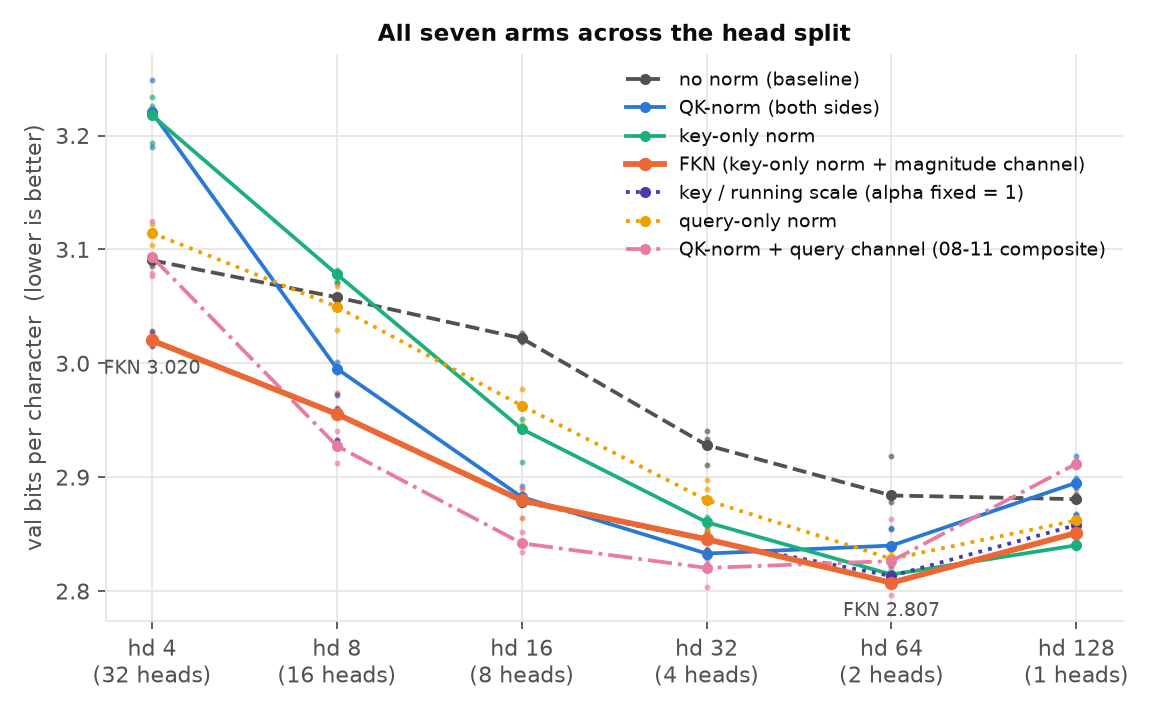
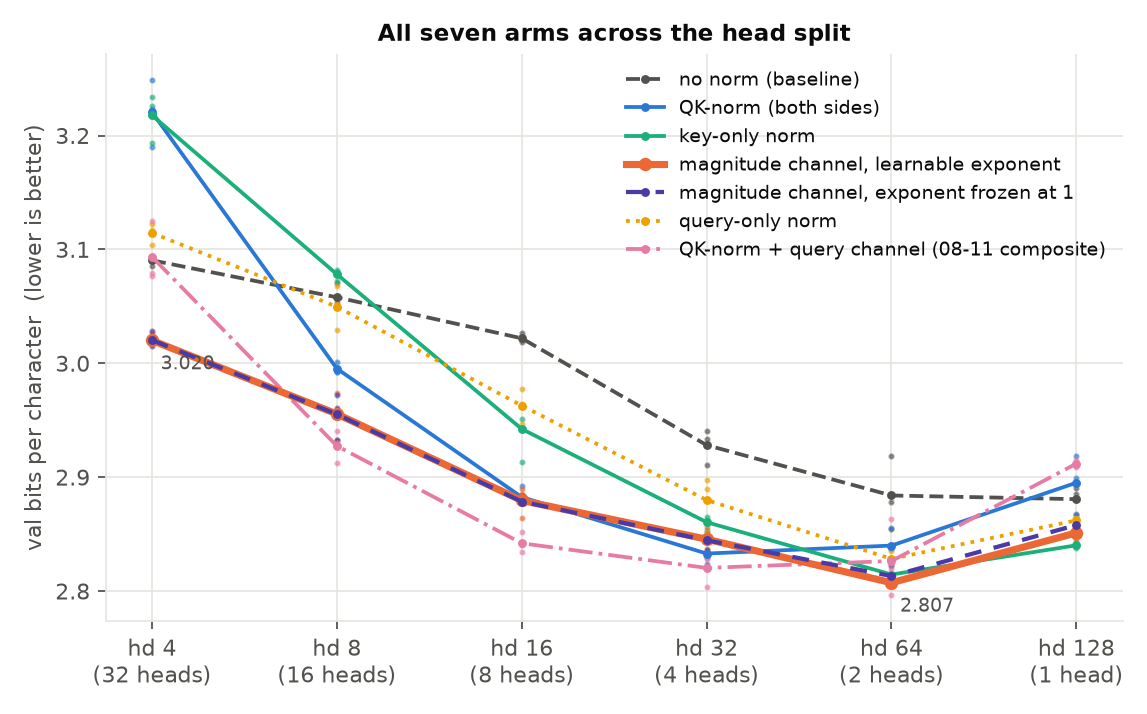
Align figure and table labels with the corrected framing; summaries for the registry rows
Renames the arm labels away from the FKN branding the results did not support, makes the
learnable and frozen magnitude-channel lines visibly coincident (that coincidence is the
finding), and fixes a matplotlib dashes=None crash that was silently leaving figures stale.

Claude-Session: https://claude.ai/code/session_015MZLZ8XvGe37GLRrP4Urpe

diff --git a/paper/make_figures.py b/paper/make_figures.py
@@ -35,8 +35,8 @@ ARMS = {
     "baseline":    ("neutral", "--", "no norm (baseline)"),
     "qknorm":      ("blue",    "-",  "QK-norm (both sides)"),
     "knorm_only":  ("aqua",    "-",  "key-only norm"),
-    "knorm_dynk":  ("orange",  "-",  "FKN (key-only norm + magnitude channel)"),
-    "k_emascale":  ("violet",  ":",  "key / running scale (alpha fixed = 1)"),
+    "knorm_dynk":  ("orange",  "-",  "magnitude channel, learnable exponent"),
+    "k_emascale":  ("violet",  "--", "magnitude channel, exponent frozen at 1"),
     "qnorm_only":  ("yellow",  ":",  "query-only norm"),
     "qknorm_dynq": ("magenta", "-.", "QK-norm + query channel (08-11 composite)"),
     # E4 arms (adaptive vs static key scale)
@@ -85,24 +85,26 @@ def fig_phase_diagram(theme, res, name="fig1_phase_diagram", arms=None,
     for a in arms:
         col, ls, lab = ARMS[a]
         ys = [by[a][str(hd)]["val_bpc_mean"] if str(hd) in by[a] else np.nan for hd in hds]
-        lw = 2.6 if a == "knorm_dynk" else 1.7
-        ax.plot(x, ys, ls, color=t[col], lw=lw, marker="o", ms=6 if a == "knorm_dynk" else 5,
-                mec="none" if theme == "dark" else "none", label=lab, zorder=3 if a == "knorm_dynk" else 2)
+        lw = 3.2 if a == "knorm_dynk" else (1.9 if a == "k_emascale" else 1.7)
+        z = 3 if a == "knorm_dynk" else (4 if a == "k_emascale" else 2)
+        kw = {"dashes": (4, 3)} if a == "k_emascale" else {}
+        ax.plot(x, ys, ls, color=t[col], lw=lw, marker="o", ms=6 if a == "knorm_dynk" else 4,
+                mec="none", label=lab, zorder=z, **kw)
         for i, hd in enumerate(hds):
             if str(hd) in by[a]:
                 ss = list(by[a][str(hd)]["val_bpc_per_seed"].values())
                 ax.plot([i] * len(ss), ss, ".", color=t[col], ms=3.5, alpha=0.55, zorder=1)
-    # selective direct labels: FKN at the first split and at its own best split
+    # selective direct labels: the magnitude-channel arm at the first split and at its best
     if "knorm_dynk" in by:
         avail = [hd for hd in hds if str(hd) in by["knorm_dynk"]]
         best = min(avail, key=lambda hd: by["knorm_dynk"][str(hd)]["val_bpc_mean"]) if avail else None
         for hd in {avail[0] if avail else None, best} - {None}:
             i = hds.index(hd)
             v = by["knorm_dynk"][str(hd)]["val_bpc_mean"]
-            ax.annotate(f"FKN {v:.3f}", (i, v), textcoords="offset points", xytext=(0, -15),
+            ax.annotate(f"{v:.3f}", (i, v), textcoords="offset points", xytext=(16, -13),
                         ha="center", fontsize=8.5, color=t["text2"])
     ax.set_xticks(x)
-    ax.set_xticklabels([f"hd {hd}\n({128 // hd} heads)" for hd in hds])
+    ax.set_xticklabels([f"hd {hd}\n({128 // hd} head{'s' if 128 // hd > 1 else ''})" for hd in hds])
     ax.set_ylabel("val bits per character  (lower is better)")
     ax.set_title(title)
     ax.legend(loc="upper right", ncol=1)
@@ -147,7 +149,7 @@ def fig_alpha(theme, res, name="fig3_alpha_vs_headdim"):
     aq = {int(k): v for k, v in P2["q_alpha_qknorm_dynq"].items() if v is not None}
     if ak:
         ax.plot([hds.index(h) for h in ak], [ak[h] for h in ak], "-o", color=t["orange"], lw=2.4,
-                label="key exponent α (FKN)")
+                label="key exponent α (learnable arm)")
     if aq:
         ax.plot([hds.index(h) for h in aq], [aq[h] for h in aq], "-.s", color=t["magenta"], lw=1.6,
                 label="query exponent α (QK-norm + query channel)")
@@ -176,7 +178,7 @@ def fig_cliff_decomp(theme, name="fig4_cliff_decomposition"):
     order = ["baseline", "kgain_only", "knorm_only", "knorm_nogain", "knorm_magrestore", "knorm_dynk"]
     labels = {"baseline": "no norm", "kgain_only": "gain only\n(no norm)", "knorm_only": "key norm\n+ gain",
               "knorm_nogain": "key norm\n(gain frozen)", "knorm_magrestore": "key norm ×\nmagnitude value\n(grad severed)",
-              "knorm_dynk": "FKN: key norm ×\nmagnitude channel\n(grad open)"}
+              "knorm_dynk": "key norm ×\nmagnitude channel\n(gradient open)"}
     cols = {"baseline": "neutral", "kgain_only": "muted", "knorm_only": "aqua", "knorm_nogain": "aqua",
             "knorm_magrestore": "blue", "knorm_dynk": "orange"}
     base = by["baseline"]["val_bpc_mean"]
@@ -207,7 +209,7 @@ def fig_timeline(theme, name="fig5_thread_timeline"):
         ("08-02", "+ per-token τ (detached)", 3.15076, "magenta"),
         ("08-06", "+ per-token τ (grad open)", 3.09340, "magenta"),
         ("08-30", "key-only norm", 3.21778, "aqua"),
-        ("08-31", "FKN", 3.02007, "orange"),
+        ("08-31", "magnitude channel", 3.02007, "orange"),
     ]
     fig, ax = plt.subplots(figsize=(8.2, 4.0))
     xs = np.arange(len(nights))
@@ -271,7 +273,7 @@ def fig_adaptation_speed(theme, res, name="fig10_adaptation_speed"):
     for hd in hds:
         ys = [per[str(hd)]["arms"][a]["delta_vs_baseline"] for a, _ in speed]
         ax.plot(x, ys, "-o", color=cols.get(hd, t["neutral"]), lw=2.2,
-                label=f"head_dim {hd} ({128 // hd} heads)")
+                label=f"head_dim {hd} ({128 // hd} head{'s' if 128 // hd > 1 else ''})")
         for i, (a, _) in enumerate(speed):
             ss = list(by[a][str(hd)]["val_bpc_per_seed"].values())
             b = by["baseline"][str(hd)]["val_bpc_per_seed"]
@@ -316,7 +318,7 @@ def fig_side_symmetry(theme, res, name="fig11_side_symmetry"):
         v = per[str(hds[-1])]["arms"]["fqkn"]["delta_vs_baseline"]
         if v > 0:
             ax.annotate("both sides breaks\nat one wide head", (len(hds) - 1, v),
-                        textcoords="offset points", xytext=(-8, 6), ha="right",
+                        textcoords="offset points", xytext=(-10, -26), ha="right",
                         fontsize=8.5, color=t["magenta"])
     ax.set_xticks(x)
     ax.set_xticklabels([f"hd {hd}" for hd in hds])
@@ -343,7 +345,7 @@ def fig_temperature(theme, res, name="fig12_temperature_curve"):
         ys = [curve[str(c)] for c in cs]
         base = per[str(hd)]["arms"]["baseline"]["bpc"]
         ax.plot(cs, [y - base for y in ys], "-o", color=cols.get(hd, t["neutral"]), lw=2.2,
-                label=f"head_dim {hd} ({128 // hd} heads)")
+                label=f"head_dim {hd} ({128 // hd} head{'s' if 128 // hd > 1 else ''})")
         bc = per[str(hd)]["best_fixed_c"]
         bb = per[str(hd)]["best_fixed_c_bpc"] - base
         ax.plot([bc], [bb], "*", ms=17, color=cols.get(hd, t["neutral"]),

diff --git a/paper/register_rows.py b/paper/register_rows.py
@@ -40,8 +40,18 @@ def row_for(exp_id, dataset_key, tags, related):
                "best_arm_by_hd": {hd: per[hd]["best_arm"] for hd in per},
                "replication_ok": m["replication_vs_parents"]["ok"],
                "replication_checked": m["replication_vs_parents"]["n_checked"]}
-    if "verdicts" in m:
-        metrics["strictly_better_than_both_parents"] = {a: v["strictly_better_than_both_parents"] for a, v in m["verdicts"].items()}
+    v = m.get("verdicts", {})
+    if v and all(isinstance(x, dict) and "strictly_better_than_both_parents" in x for x in v.values()):
+        metrics["strictly_better_than_both_parents"] = {a: x["strictly_better_than_both_parents"] for a, x in v.items()}
+    elif v:
+        metrics["verdicts_by_head_dim"] = v
+    for k in ("global_best", "P2_alpha_vs_head_dim", "P3_dynk_vs_dynq"):
+        if k in m:
+            metrics[k] = m[k]
+    for hd, row in per.items():
+        if "best_fixed_c" in row:
+            metrics.setdefault("best_fixed_c_by_head_dim", {})[hd] = row["best_fixed_c"]
+            metrics.setdefault("fixed_c_curve_by_head_dim", {})[hd] = row["fixed_c_curve"]
     s = SUMMARIES.get(exp_id, {})
     slug = exp_id.split("_", 1)[1]
     return {
@@ -78,6 +88,13 @@ ROWS = [
     ("2026-09-01_kscale-adaptive-vs-static", "shakespeare",
      ["attention-norm", "running-scale", "mechanism", "cpu-only"],
      ["2026-09-01_knorm-dynk-head-sweep", "2026-08-31_hd4-kside-cliff-mechanism"]),
+    ("2026-09-01_fractional-norm-both-sides", "shakespeare",
+     ["attention-norm", "side-symmetry", "head-dim", "cpu-only"],
+     ["2026-09-01_knorm-dynk-head-sweep", "2026-08-30_knorm-only-head-sweep"]),
+    ("2026-09-01_logit-scale-sweep", "shakespeare",
+     ["attention-temperature", "initialization", "logit-scale", "mechanism", "cpu-only"],
+     ["2026-09-01_kscale-adaptive-vs-static", "2026-07-31_qknorm-hd4-temperature-rescue",
+      "2026-09-01_knorm-dynk-head-sweep"]),
 ]
 
 

diff --git a/paper/fill_sections.py b/paper/fill_sections.py
@@ -11,11 +11,11 @@ from pathlib import Path
 ROOT = Path(__file__).resolve().parent.parent
 EXP = ROOT / "experiments"
 LABEL = {"baseline": "no norm", "qknorm": "QK-norm", "qnorm_only": "query-only norm",
-         "knorm_only": "key-only norm", "knorm_dynk": "**FKN**", "k_emascale": "key / running scale (alpha = 1 fixed)",
+         "knorm_only": "key-only norm", "knorm_dynk": "**magnitude channel** (learnable exponent)", "k_emascale": "magnitude channel (exponent frozen at 1)",
          "qknorm_dynq": "QK-norm + query channel",
          "k_static_init_scale": "key / first-batch scale (static)", "k_emascale_m09": "key / running scale, m 0.9",
          "k_emascale_m0999": "key / running scale, m 0.999", "q_emascale": "query / running scale",
-         "fqn": "magnitude channel on queries", "fqkn": "magnitude channel on both sides",
+         "fqn": "magnitude channel, queries", "fqkn": "magnitude channel, both sides",
          "c2": "fixed multiplier c = 2", "c4": "fixed multiplier c = 4", "c8": "fixed multiplier c = 8",
          "c16": "fixed multiplier c = 16", "c_learn1": "learnable c, starts at 1",
          "c_learn4": "learnable c, starts at 4", "kinit_x4": "key init scaled x4 (no runtime op)"}
@@ -93,7 +93,7 @@ def verdict_lines(res):
     out.append(f"- Global best: {LABEL[gb['arm']]} at hd {gb['head_dim']} = {gb['bpc']:.4f} bpc.")
     p3 = res["metrics"].get("P3_dynk_vs_dynq", {})
     if p3:
-        out.append("- FKN minus (QK-norm + query channel): " + ", ".join(
+        out.append("- Magnitude channel minus (QK-norm + query channel): " + ", ".join(
             f"hd {hd}: {d['dynk_minus_dynq']:+.3f} ({d['dynk_beats_dynq_seeds']})" for hd, d in p3.items()) + ".")
     return "\n".join(out)
 
